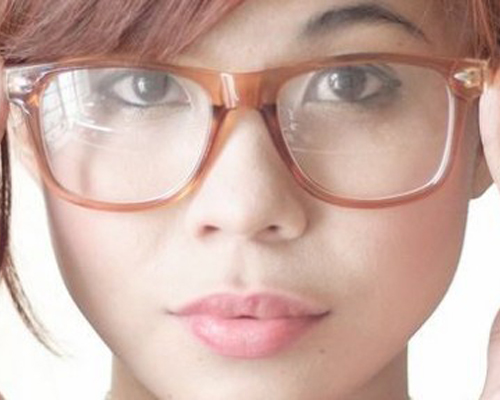
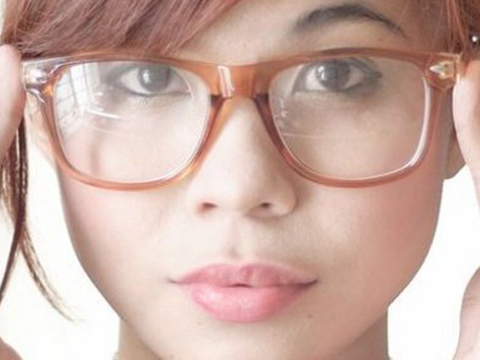
changed gemfile and the styling

diff --git a/app/assets/stylesheets/application.css b/app/assets/stylesheets/application.css
@@ -53,37 +53,39 @@ header#primary {
       border-top: 5px solid #646464; }
 
 header#slider-wrapper {
-  margin: 50px 0;
+  margin: 50px 240px;
   overflow: hidden;
-  height: 400px; }
-  header#slider-wrapper .slider-control {
-    background-color: black;
-    cursor: pointer;
-    height: 400px; }
+  width: 480px;
+  height: 360px; }
   header#slider-wrapper #slider {
-    background-color: black;
-    height: 400px; }
-    header#slider-wrapper #slider #slide-1 {
-      background: url("cropped-asian-hipster.jpg"); }
+    overflow: hidden;
+    height: 360px;
+    width: 480px; }
     header#slider-wrapper #slider .slide {
-      background-color: #1e1e1e;
-      margin-left: 100px;
-      width: 500px;
-      height: 400px; }
-      header#slider-wrapper #slider .slide .hgroup-push {
-        background-color: rgba(0, 0, 0, 0.5);
-        height: 300px; }
-      header#slider-wrapper #slider .slide .hgroup-wrapper {
-        background-color: rgba(0, 0, 0, 0.75); }
-        header#slider-wrapper #slider .slide .hgroup-wrapper hgroup {
-          height: 100px;
-          bottom: 0px; }
-          header#slider-wrapper #slider .slide .hgroup-wrapper hgroup h1 {
-            color: #c8c8c8;
-            font-size: 17px;
-            padding: 10px;
-            padding-bottom: 0px; }
-          header#slider-wrapper #slider .slide .hgroup-wrapper hgroup h2 {
-            color: #c8c8c8;
-            font-size: 14px;
-            padding: 10px; }
+      background-color: black;
+      width: 480px;
+      height: 360px; }
+      header#slider-wrapper #slider .slide hgroup {
+        position: absolute;
+        width: 480px;
+        z-index: 2; }
+        header#slider-wrapper #slider .slide hgroup h1 {
+          color: #c8c8c8;
+          font-size: 25px;
+          padding: 10px 20px;
+          padding-bottom: 0px; }
+        header#slider-wrapper #slider .slide hgroup h2 {
+          color: #c8c8c8;
+          font-size: 14px;
+          line-height: 17px;
+          padding: 10px 20px; }
+      header#slider-wrapper #slider .slide canvas {
+        position: absolute;
+        width: 480px;
+        height: 360px;
+        z-index: 1; }
+      header#slider-wrapper #slider .slide .embed {
+        margin-left: 28px;
+        position: absolute;
+        width: 425px;
+        height: 360px; }

diff --git a/app/assets/stylesheets/application.sass b/app/assets/stylesheets/application.sass
@@ -58,39 +58,43 @@ header#primary
 			li:hover
 				border-top:  5px solid rgb(100,100,100)
 
-$slider-height: 400px
+$slider-height: 360px
+$slider-width: 480px
 header#slider-wrapper
-	margin: 50px 0
+	margin: 50px 240px
 	overflow:  hidden
+	width: $slider-width
 	height: $slider-height
-	.slider-control
-		background-color: black
-		cursor: pointer
-		height: $slider-height
+
 	#slider
-		background-color: black
+		overflow: hidden
 		height: $slider-height
-		#slide-1
-			background: url('cropped-asian-hipster.jpg')
+		width: $slider-width
 		.slide
-			background-color: rgb(30,30,30)
-			margin-left: 100px
-			width: 500px
+			background-color: rgb(0,0,0)
+			width: $slider-width
 			height: $slider-height
-			.hgroup-push
-				background-color: rgba(0,0,0,.5)
-				height: $slider-height * (3/4)
-			.hgroup-wrapper
-				background-color: rgba(0,0,0,.75)
-				hgroup
-					height: $slider-height / 4
-					bottom: 0px
-					h1
-						color: rgb(200,200,200)
-						font-size: 17px
-						padding: 10px
-						padding-bottom: 0px
-					h2
-						color: rgb(200,200,200)
-						font-size: 14px
-						padding: 10px
+			hgroup
+				position: absolute
+				width: $slider-width
+				z-index: 2
+				h1
+					color: rgb(200,200,200)
+					font-size: 25px
+					padding: 10px 20px
+					padding-bottom: 0px
+				h2
+					color: rgb(200,200,200)
+					font-size: 14px
+					line-height: 17px
+					padding: 10px 20px
+			canvas
+				position: absolute
+				width: $slider-width
+				height: $slider-height
+				z-index: 1
+			.embed
+				margin-left: 28px
+				position: absolute
+				width: 425px
+				height: $slider-height

diff --git a/app/assets/javascripts/black_and_white.js b/app/assets/javascripts/black_and_white.js
@@ -1,0 +1,32 @@
+(function() {
+  $(document).ready(function() {
+    var canvas, context, data, i, image, imageData, luminosity, _ref;
+    image = new Image();
+    image.src = "cropped-asian-hipster.jpg";
+    canvas = document.getElementById("canvas-3");
+    context = canvas.getContext("2d");
+    canvas.width = image.width;
+    canvas.height = image.height;
+    context.drawImage(image, 0, 0);
+    imageData = context.getImageData(0, 0, canvas.width, canvas.height);
+    data = imageData.data;
+    for (i = 0, _ref = data.length; i <= _ref; i += 4) {
+      luminosity = (data[i] * 0.21) + (data[i + 1] * 0.71) + (data[i + 2] * 0.07);
+      data[i] = luminosity;
+      data[i + 1] = luminosity;
+      data[i + 2] = luminosity;
+    }
+    context.putImageData(imageData, 0, 0);
+    $('#canvas-3').mouseenter(function() {
+      return context.drawImage(image, 0, 0);
+    });
+    $('#cavas-3').mouseout(function() {
+      return context.putImageData(imageData, 0, 0);
+    });
+    return $('#canvas-3').click(function() {
+      return $('#canvas-3').css({
+        'display': 'none'
+      });
+    });
+  });
+}).call(this);
